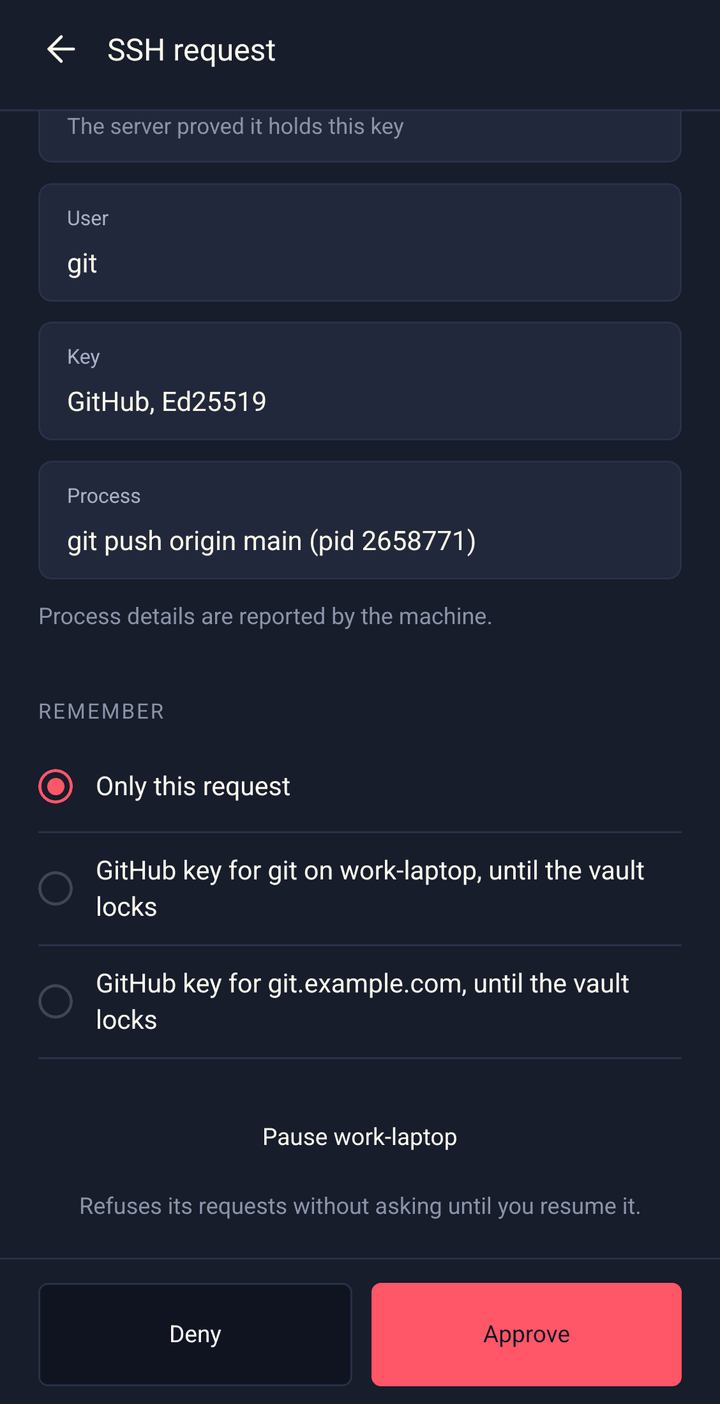
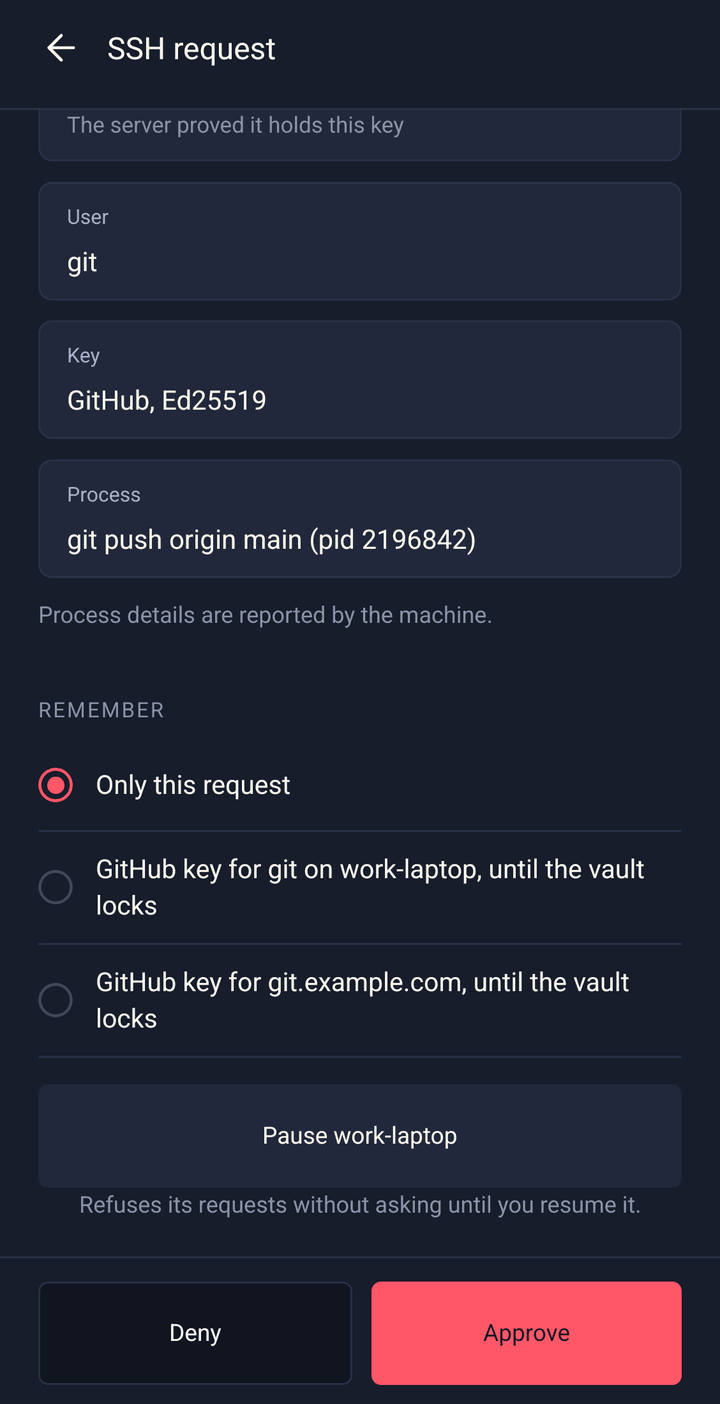
fix(ssh-agent): show Pause on the Android approval prompt as a button

diff --git a/mobile/app/(app)/agent-request.tsx b/mobile/app/(app)/agent-request.tsx
@@ -412,7 +412,7 @@ function AgentRequestView() {
                 ) : null}
                 <Button
                     testID="agent-pause-from-request"
-                    variant="ghost"
+                    variant="secondary"
                     className="mt-4"
                     disabled={busy !== null}
                     loading={busy === "pause"}
